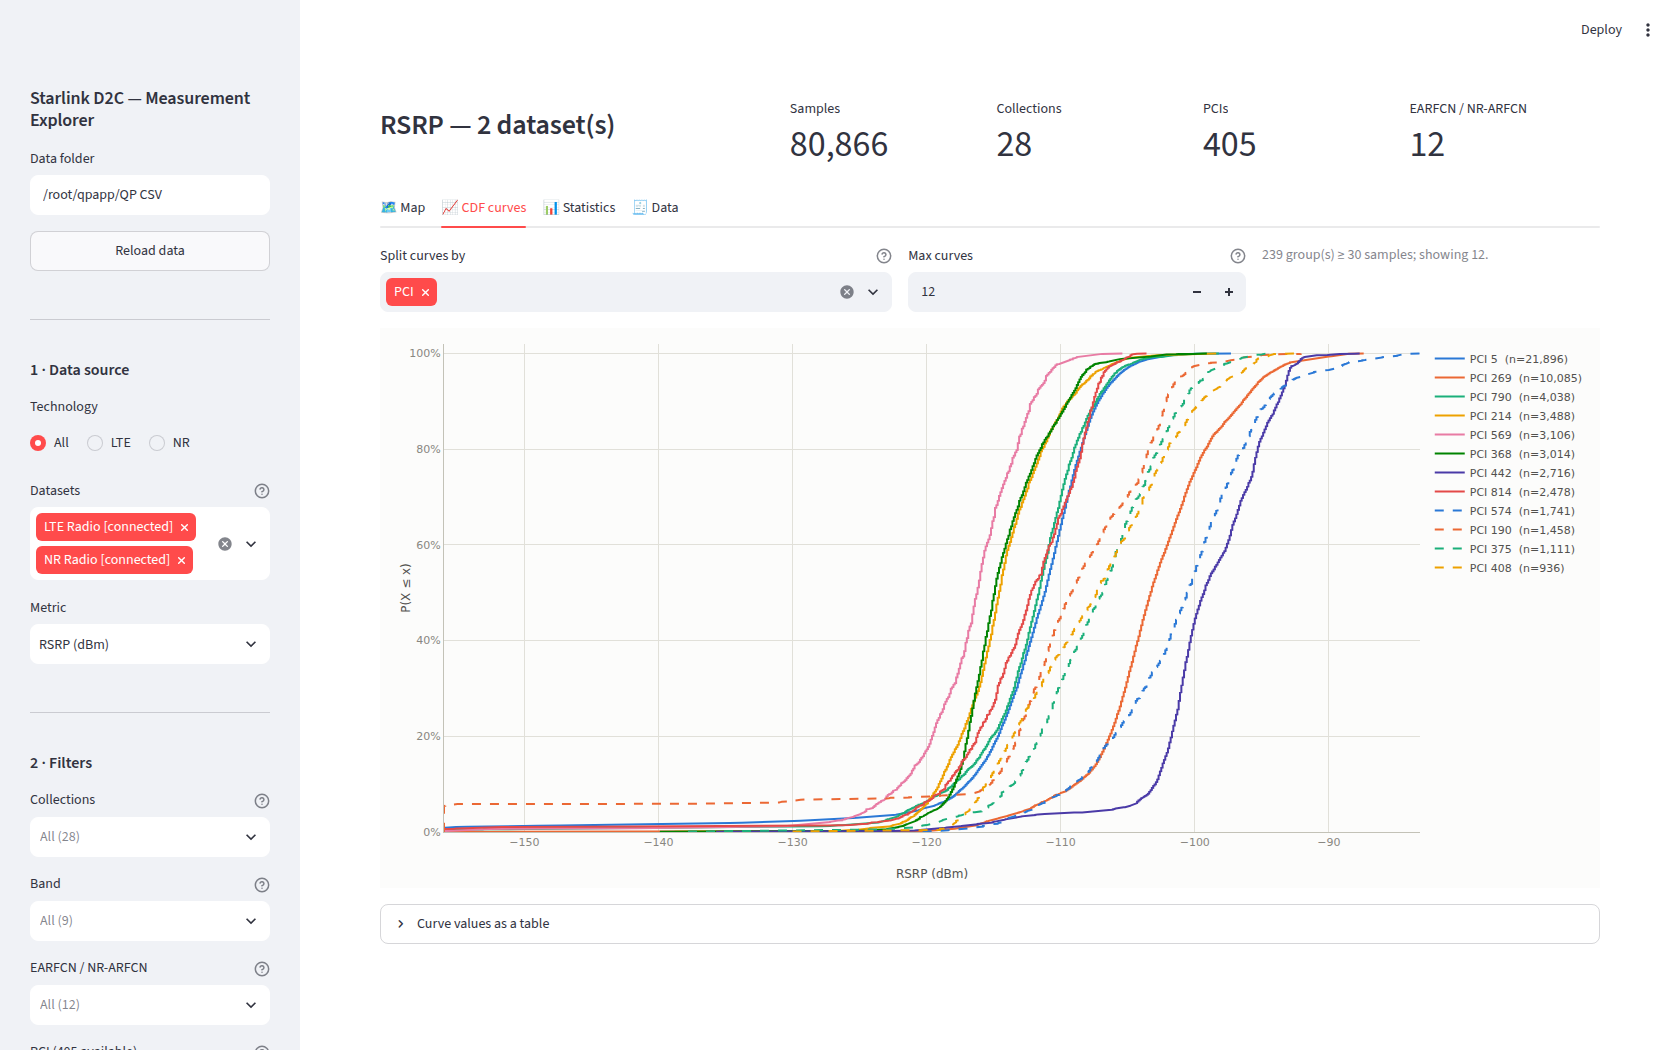
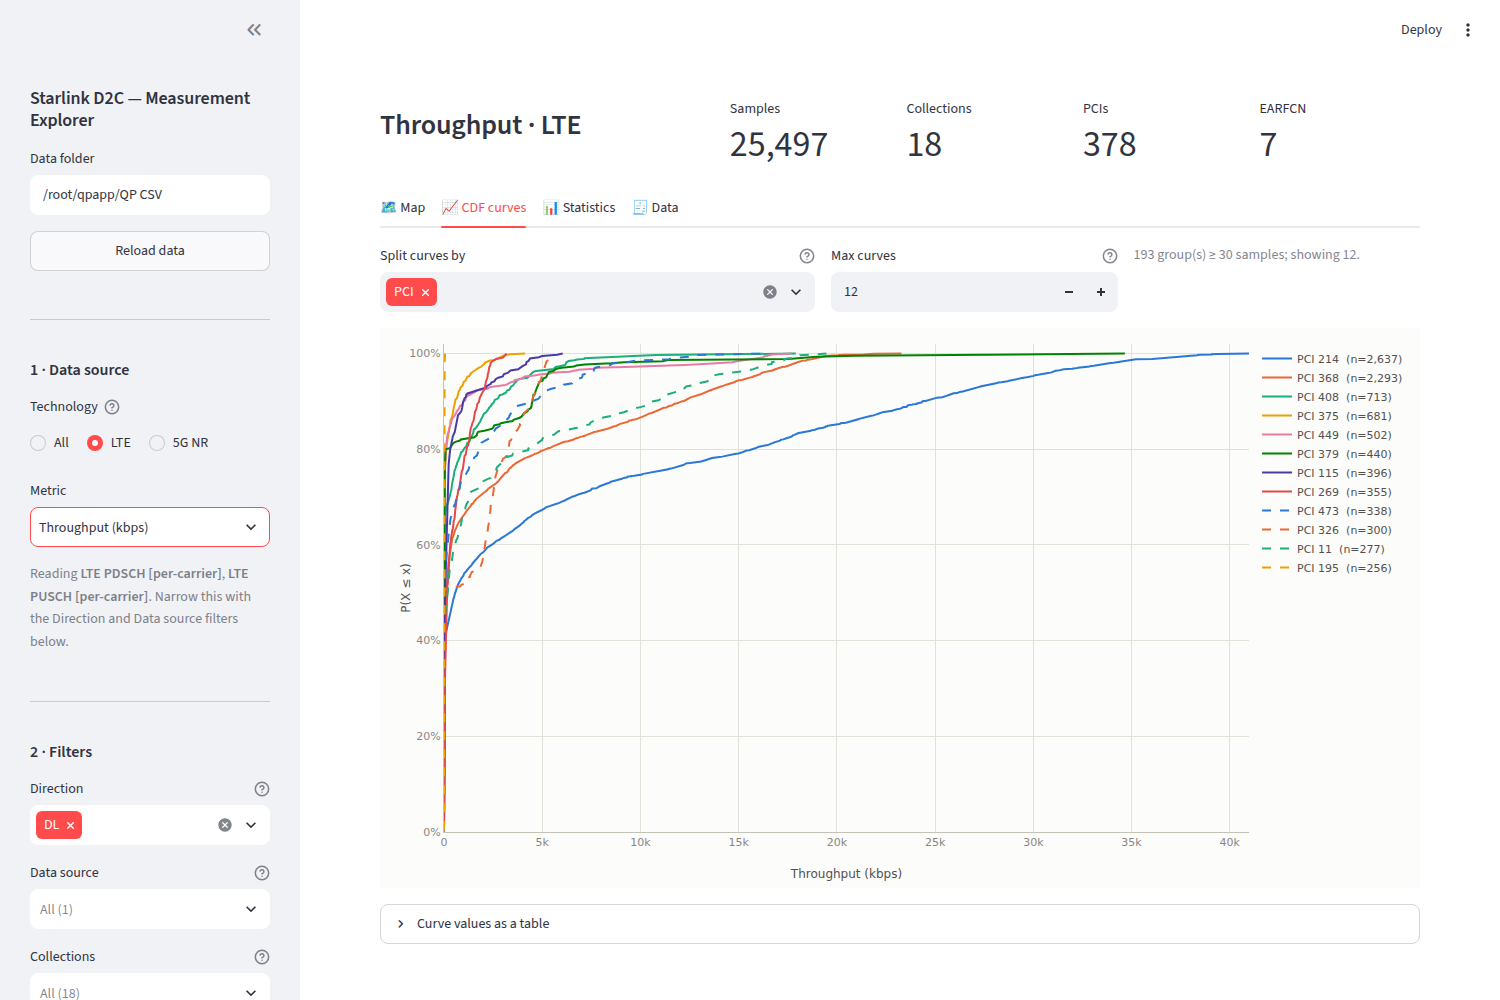
Replace the dataset picker with Technology + Metric auto-resolution
Picking Qualipoc exports by hand was the wrong first question to ask. The
sidebar now takes a technology (All / LTE / 5G NR) and a metric, and
schema.datasets_for() resolves which exports can supply that metric; the
sidebar names what it read.

Some metrics live in more than one export, so the resolution is exposed rather
than hidden:

- Direction (DL/UL) and Data source join Collection/Band/carrier/PCI as
  ordinary multi-select filters, and were already available as CDF grouping
  dimensions.
- Direction defaults to DL for metrics carried in both directions (throughput,
  MCS) so uplink and downlink are never pooled into one distribution by
  accident; clearing the filter opts back in.

Adds Filters.links, schema.TECHNOLOGIES and schema.datasets_for, plus tests for
the resolver, the direction/source filters and the app's new sidebar flow
(91 tests).

Claude-Session: https://claude.ai/code/session_017rktNHWNv863WsRShRK9zC

diff --git a/app.py b/app.py
@@ -16,7 +16,9 @@ from qpviz import charts, filters as flt, loader, mapview, stats
 from qpviz.schema import (
     DATASETS_BY_KEY,
     METRICS,
+    TECHNOLOGIES,
     Dataset,
+    datasets_for,
     metrics_available,
 )
 
@@ -85,39 +87,35 @@ with st.sidebar:
     st.markdown("#### 1 · Data source")
 
     tech = st.radio(
-        "Technology", ["All", "LTE", "NR"], horizontal=True, key="tech_choice"
+        "Technology",
+        list(TECHNOLOGIES),
+        horizontal=True,
+        key="tech_choice",
+        help="Which radio technology to read. The matching Qualipoc exports are "
+             "selected automatically from the metric you pick below.",
     )
-    candidates = [
-        DATASETS_BY_KEY[k]
-        for k in present
-        if tech == "All" or DATASETS_BY_KEY[k].tech == tech
+    tech_value = TECHNOLOGIES[tech]
+    in_tech = [
+        k for k in present if tech_value is None or DATASETS_BY_KEY[k].tech == tech_value
     ]
-    default_sources = [
-        d.key for d in candidates if d.key in ("lte_radio", "nr_radio")
-    ] or [candidates[0].key]
-
-    source_keys = st.multiselect(
-        "Datasets",
-        options=[d.key for d in candidates],
-        default=default_sources,
-        format_func=lambda k: DATASETS_BY_KEY[k].label,
-        help="Each Qualipoc export carries a different set of metrics.",
-    )
-    if not source_keys:
-        st.warning("Select at least one dataset.")
+    if not in_tech:
+        st.warning(f"No {tech} exports in this folder.")
         st.stop()
 
-    metric_keys = metrics_available(source_keys)
-    if not metric_keys:
-        st.warning("The selected datasets share no plottable metric.")
-        st.stop()
-
+    metric_keys = metrics_available(in_tech)
     metric = st.selectbox(
         "Metric",
         options=metric_keys,
         format_func=lambda m: METRICS[m].axis_label,
         index=0,
         key="metric_choice",
+    )
+
+    source_keys = [d.key for d in datasets_for(metric, tech_value, available=in_tech)]
+    st.caption(
+        "Reading "
+        + ", ".join(f"**{DATASETS_BY_KEY[k].label}**" for k in source_keys)
+        + ". Narrow this with the Direction and Data source filters below."
     )
 
 frame = load_frame(data_dir, tuple(sorted(source_keys)))
@@ -129,10 +127,35 @@ with st.sidebar:
     st.divider()
     st.markdown("#### 2 · Filters")
 
-    collections = multiselect_all(
-        "Collections", loader.options(frame, "collection"), "f_collections"
+    link_options = loader.options(frame, "link")
+    links = st.multiselect(
+        "Direction",
+        options=link_options,
+        # a metric that exists in both directions defaults to downlink rather
+        # than silently pooling DL and UL into one distribution
+        default=["DL"] if set(link_options) == {"DL", "UL"} else [],
+        key=f"f_links_{'-'.join(link_options)}",
+        help="Leave empty to include all.",
+        placeholder=f"All ({len(link_options)})",
     )
-    step1 = flt.apply_filters(frame, flt.Filters(collections=collections))
+    step0 = flt.apply_filters(frame, flt.Filters(links=links))
+
+    source_options = [k for k in source_keys if k in set(step0["source"].dropna())]
+    sources = st.multiselect(
+        "Data source",
+        options=source_options,
+        default=[],
+        format_func=lambda k: DATASETS_BY_KEY[k].label,
+        key="f_sources",
+        help="Leave empty to include all of the exports listed above.",
+        placeholder=f"All ({len(source_options)})",
+    )
+    step0 = flt.apply_filters(step0, flt.Filters(sources=sources))
+
+    collections = multiselect_all(
+        "Collections", loader.options(step0, "collection"), "f_collections"
+    )
+    step1 = flt.apply_filters(step0, flt.Filters(collections=collections))
 
     bands = multiselect_all("Band", loader.options(step1, "band"), "f_bands")
     step2 = flt.apply_filters(step1, flt.Filters(bands=bands))
@@ -192,6 +215,8 @@ with st.sidebar:
 active = flt.apply_filters(
     frame,
     flt.Filters(
+        links=links,
+        sources=sources,
         collections=collections,
         bands=bands,
         freqs=freqs,
@@ -207,6 +232,8 @@ active = flt.apply_filters(
 unregioned = flt.apply_filters(
     frame,
     flt.Filters(
+        links=links,
+        sources=sources,
         collections=collections,
         bands=bands,
         freqs=freqs,
@@ -223,7 +250,7 @@ unregioned = flt.apply_filters(
 
 metric_meta = METRICS[metric]
 head = st.columns([2, 1, 1, 1, 1])
-head[0].markdown(f"### {metric_meta.label} — {len(source_keys)} dataset(s)")
+head[0].markdown(f"### {metric_meta.label} · {tech}")
 head[1].metric("Samples", f"{len(active):,}")
 head[2].metric("Collections", f"{active['collection'].nunique():,}")
 head[3].metric("PCIs", f"{active['pci'].nunique():,}")

diff --git a/tests/test_app.py b/tests/test_app.py
@@ -33,6 +33,8 @@ def test_app_starts_and_renders_every_tab(fixture_dir, monkeypatch, tmp_path):
     assert any("CDF" in l for l in labels)
     assert app.multiselect(key="f_collections") is not None
     assert app.selectbox(key="metric_choice") is not None
+    # datasets are resolved from technology + metric, never picked by hand
+    assert not [m for m in app.multiselect if m.label == "Datasets"]
     # header metrics + at least one plotly chart rendered
     assert len(app.metric) >= 4
 
@@ -56,13 +58,54 @@ def test_app_switches_metric_and_technology(fixture_dir, monkeypatch, tmp_path):
     monkeypatch.setenv("QP_CACHE_DIR", str(tmp_path / "cache"))
     app = _run(fixture_dir)
     _assert_clean(app)
-    app.radio(key="tech_choice").set_value("NR").run()
+    assert app.radio(key="tech_choice").options == ["All", "LTE", "5G NR"]
+
+    app.radio(key="tech_choice").set_value("5G NR").run()
     _assert_clean(app)
     metric = app.selectbox(key="metric_choice")
+    # only the NR radio export is present in the fixtures, so only its metrics
     assert metric.options == ["RSRP (dBm)", "RSRQ (dB)", "SINR (dB)"]
     metric.set_value("sinr").run()
     _assert_clean(app)
     assert app.selectbox(key="metric_choice").value == "sinr"
+
+
+def test_metric_with_both_directions_defaults_to_downlink(
+    fixture_dir, monkeypatch, tmp_path
+):
+    monkeypatch.setenv("QP_CACHE_DIR", str(tmp_path / "cache"))
+    app = _run(fixture_dir)
+    _assert_clean(app)
+    app.radio(key="tech_choice").set_value("LTE").run()
+    app.selectbox(key="metric_choice").set_value("throughput").run()
+    _assert_clean(app)
+
+    direction = app.multiselect(key="f_links_DL-UL")
+    assert direction.options == ["DL", "UL"]
+    assert direction.value == ["DL"]
+
+    downlink_only = int(app.metric[0].value.replace(",", ""))
+    direction.select("UL").run()
+    _assert_clean(app)
+    assert int(app.metric[0].value.replace(",", "")) > downlink_only
+
+
+def test_data_source_filter_narrows_the_pooled_exports(
+    fixture_dir, monkeypatch, tmp_path
+):
+    monkeypatch.setenv("QP_CACHE_DIR", str(tmp_path / "cache"))
+    app = _run(fixture_dir)
+    _assert_clean(app)
+    app.radio(key="tech_choice").set_value("LTE").run()
+    app.selectbox(key="metric_choice").set_value("throughput").run()
+    _assert_clean(app)
+
+    sources = app.multiselect(key="f_sources")
+    # the DL default leaves only the PDSCH export in play; options render as labels
+    assert sources.options == ["LTE PDSCH [per-carrier]"]
+    sources.select("lte_pdsch_pc").run()
+    _assert_clean(app)
+    assert app.multiselect(key="f_sources").value == ["lte_pdsch_pc"]
 
 
 REAL_DATA = Path(__file__).resolve().parents[1] / "QP CSV"

diff --git a/tests/test_schema.py b/tests/test_schema.py
@@ -46,3 +46,28 @@ def test_metrics_available_is_in_display_order():
 
 def test_metrics_available_ignores_unknown_keys():
     assert schema.metrics_available(["nope"]) == []
+
+
+def test_technologies_map_to_dataset_tech_values():
+    assert schema.TECHNOLOGIES == {"All": None, "LTE": "LTE", "5G NR": "NR"}
+
+
+def test_datasets_for_resolves_metric_and_technology():
+    # RSRP for "All" pools the LTE serving + neighbour and the NR radio exports
+    assert {d.key for d in schema.datasets_for("rsrp")} == {
+        "lte_radio",
+        "lte_neighbor",
+        "nr_radio",
+    }
+    assert {d.key for d in schema.datasets_for("rsrp", "NR")} == {"nr_radio"}
+
+
+def test_datasets_for_spans_both_directions_where_the_metric_does():
+    resolved = schema.datasets_for("throughput", "LTE")
+    assert {d.link for d in resolved} == {"DL", "UL"}
+
+
+def test_datasets_for_honours_what_is_on_disk():
+    resolved = schema.datasets_for("rsrp", available=["nr_radio", "lte_pdsch_pc"])
+    assert [d.key for d in resolved] == ["nr_radio"]
+    assert schema.datasets_for("rsrp", available=[]) == []

diff --git a/tests/test_filters.py b/tests/test_filters.py
@@ -119,3 +119,22 @@ def test_require_drops_rows_with_null_dimensions(fixture_dir, cache_dir):
     assert out["pci"].notna().all()
     assert len(out) == len(patched) - 5
     assert len(flt.apply_filters(patched, flt.Filters(require=["nope"]))) == len(patched)
+
+
+def test_direction_filter(fixture_dir, cache_dir):
+    from qpviz.loader import load as _load
+
+    both = _load(fixture_dir, ["lte_pdsch_pc", "lte_pusch_pc"], cache_dir)
+    assert set(both["link"].unique()) == {"DL", "UL"}
+    downlink = flt.apply_filters(both, flt.Filters(links=["DL"]))
+    assert set(downlink["link"].unique()) == {"DL"}
+    assert 0 < len(downlink) < len(both)
+    assert len(flt.apply_filters(both, flt.Filters(links=["DL", "UL"]))) == len(both)
+
+
+def test_source_filter(fixture_dir, cache_dir):
+    from qpviz.loader import load as _load
+
+    both = _load(fixture_dir, ["lte_pdsch_pc", "lte_pusch_pc"], cache_dir)
+    out = flt.apply_filters(both, flt.Filters(sources=["lte_pusch_pc"]))
+    assert set(out["source"].unique()) == {"lte_pusch_pc"}

diff --git a/qpviz/schema.py b/qpviz/schema.py
@@ -339,6 +339,25 @@ def datasets_with_metric(metric: str, tech: Optional[str] = None) -> List[Datase
     return out
 
 
+#: UI label -> the ``tech`` value stored on each dataset (``None`` = no filter)
+TECHNOLOGIES: Dict[str, Optional[str]] = {"All": None, "LTE": "LTE", "5G NR": "NR"}
+
+
+def datasets_for(
+    metric: str, tech: Optional[str] = None, available: Optional[List[str]] = None
+) -> List[Dataset]:
+    """Every export that can supply ``metric`` for ``tech``.
+
+    This is what replaces picking datasets by hand: the technology and the
+    metric together determine which files are read.
+    """
+    out = datasets_with_metric(metric, tech)
+    if available is not None:
+        keep = set(available)
+        out = [d for d in out if d.key in keep]
+    return out
+
+
 def metrics_available(dataset_keys: List[str]) -> List[str]:
     """Metric keys present in at least one of ``dataset_keys``, in display order."""
     present = set()

diff --git a/qpviz/filters.py b/qpviz/filters.py
@@ -77,6 +77,7 @@ class Filters:
     freqs: Optional[Sequence[int]] = None
     pcis: Optional[Sequence[int]] = None
     techs: Optional[Sequence[str]] = None
+    links: Optional[Sequence[str]] = None
     sources: Optional[Sequence[str]] = None
     #: list of polygons, each a list of ``(lat, lon)`` vertices; OR-ed together
     regions: List[List[LatLon]] = field(default_factory=list)
@@ -120,6 +121,7 @@ def apply_filters(frame: pd.DataFrame, filters: Filters) -> pd.DataFrame:
         ("freq", filters.freqs),
         ("pci", filters.pcis),
         ("tech", filters.techs),
+        ("link", filters.links),
         ("source", filters.sources),
     ):
         if values:

diff --git a/tests/test_loader.py b/tests/test_loader.py
@@ -69,7 +69,13 @@ def test_missing_file_raises(tmp_path):
 
 def test_available_datasets_lists_only_present_files(fixture_dir):
     keys = {d.key for d in loader.available_datasets(fixture_dir)}
-    assert keys == {"lte_radio", "nr_radio", "lte_pdsch_pc", "lte_pucch"}
+    assert keys == {
+        "lte_radio",
+        "nr_radio",
+        "lte_pdsch_pc",
+        "lte_pusch_pc",
+        "lte_pucch",
+    }
 
 
 def test_load_concatenates_and_skips_missing(fixture_dir, cache_dir):

diff --git a/tests/conftest.py b/tests/conftest.py
@@ -79,7 +79,7 @@ def write_dataset(directory: Path, ds: Dataset, rows: int = 240, seed: int = 7) 
 @pytest.fixture(scope="session")
 def fixture_dir(tmp_path_factory) -> Path:
     directory = tmp_path_factory.mktemp("qp_csv")
-    for key in ("lte_radio", "nr_radio", "lte_pdsch_pc", "lte_pucch"):
+    for key in ("lte_radio", "nr_radio", "lte_pdsch_pc", "lte_pusch_pc", "lte_pucch"):
         write_dataset(directory, DATASETS_BY_KEY[key])
     return directory
 

diff --git a/README.md b/README.md
@@ -33,10 +33,20 @@ present.
 an empty selection means *all*. Selecting several collections pools their
 samples; splitting curves by `Collection` compares them side by side.
 
-**Filters** — Technology (LTE / NR / both) → dataset → metric, then
-Collection, Band, EARFCN / NR-ARFCN, PCI, and a **region drawn on the map**.
-Each filter's options are derived from what survives the filters above it, so
-you never see a PCI that no longer has data behind it.
+**No dataset picking.** You choose a **Technology** (All / LTE / 5G NR) and a
+**Metric**; the app works out which of the ten exports can supply that metric
+and pools them. The sidebar names what it read, e.g. *"Reading LTE PDSCH
+[per-carrier], LTE PUSCH [per-carrier]"*.
+
+**Filters** — Direction (DL / UL), Data source, Collection, Band,
+EARFCN / NR-ARFCN, PCI, and a **region drawn on the map**. Every one is a
+multi-select where empty means *all*, and each filter's options are derived
+from what survives the filters above it, so you never see a PCI that no longer
+has data behind it. When a metric exists in both directions — throughput and
+MCS do — Direction defaults to **DL** rather than silently pooling uplink and
+downlink into one distribution. Direction and Data source are also available
+as CDF grouping dimensions, so you can put DL and UL, or per-carrier and
+aggregated, on the same canvas deliberately.
 
 **Region selection.** On the Map tab, use the rectangle or polygon tool at the
 top-left. Every shape you draw is applied (as a union) to *all* tabs — map, CDF,
